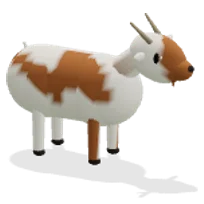
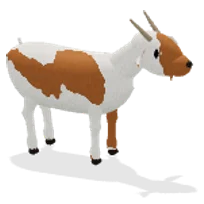
3D map: animals in look C — lofted bodies and legs, coat grain, crisp breed patches, lighter herds
Same rig, brain and one-mesh herd; the models and the material changed.

- Trunk is one lofted form with a chest and belly; legs are lofted with a knee
  and a hock; horses and donkeys on one hoof, the rest cloven.
- Ears are cupped sheets with a pink inside; manes, tail tufts and feathers are
  blades; birds have toes, a lobed comb and an eye highlight.
- Breed patches are a field in the vertices cut per pixel, so cow and goat
  patches stay crisp. Hair and feather grain in the material; eyes, hooves,
  horns and beaks shine a little.
- Leaner trunks and smaller heads than the toy build; shorter back on the horse.
- Levels of detail by herd size (animalTier): 0 up to 6 animals, 1 up to 16,
  2 up to 40, 3 beyond; a phone on a big farm drops one more. Budgets enforced
  in tests/animals-real.test.js.
- Animal pictures and the barn, coop and pasture tiles re-rendered.
- docs/MAP_STYLE.md section 10: animals, coat material, levels, measurements.

Still simplified anatomy. Not measured on a phone.

Claude-Session: https://claude.ai/code/session_015cd1CNMNj9fbLSNeRdPE1U

Changed region(s): [[0.0294, 0.0882, 0.9706, 0.8235], [0.5882, 0.7941, 0.7059, 0.8824], [0.7059, 0.0588, 0.7353, 0.1176]]

diff --git a/src/features/grove/animals3d.js b/src/features/grove/animals3d.js
@@ -6,15 +6,21 @@
    move in the vertex shader from the shared clock: they walk slow loops inside their
    paddock, stop and graze (head down, nibbling), swish tails, hens strut and peck,
    rabbits hop. Local space: forward = +z, up = +y, ground = y 0, body centre at x/z 0.
-   Toy proportions (v2): plump rounded bodies, big heads and eyes, short chunky legs with
-   rounded hooves, smooth high-segment surfaces, matte vertex colours.
-   MARKER: GROVE_ANIMALS_3D_V2
+   Look C (docs/MAP_STYLE.md §10): one lofted trunk with a chest and belly, lofted legs with knees and
+   hocks, cupped ears, hair and feather blades, breed patches cut crisp per pixel, coat grain in the
+   material. Still simplified anatomy: readable at map size, not a sculpt. Herds get lighter models as
+   they grow (animalTier).
+   MARKER: GROVE_ANIMALS_3D_V3
    ═══════════════════════════════════════════ */
 import * as THREE from "three";
 import { mergeGeometries } from "three/examples/jsm/utils/BufferGeometryUtils.js";
 import { DETAIL } from "./toy";
-// phones build animals with fewer segments too (toy.js setDetail)
-const sd = (n, min) => Math.max(min, Math.round(n * DETAIL.value));
+// big herds and phones on a big farm get lighter models, as crops and trees do: fewer segments, fewer and wider hair blades
+export const ANIMAL_Q = [1, .72, .55, .42];
+export function animalTier(count, phone) { const t = count <= 6 ? 0 : count <= 16 ? 1 : count <= 40 ? 2 : 3; return Math.min(3, t + (phone ? 1 : 0)); }
+let QUAL = 1;
+const sd = (n, min) => Math.max(min, Math.round(n * QUAL));
+const hairs = (n, min) => Math.max(min, Math.round(n * Math.min(1, QUAL * 1.3))); // how many blades of a mane, tuft or fan
 const sph = (a, b) => new THREE.SphereGeometry(1, sd(a, 5), sd(b, 4));
 
 const HPI = Math.PI / 2, DEG = Math.PI / 180;
@@ -29,8 +35,8 @@ function patchy(x, y, z, k) { return Math.sin(x * 4.1 + k) * Math.sin(y * 3.3 + 
 
 /* ---------- a rig collects coloured primitives with their part id and pivot ---------- */
 class Rig {
-  constructor() { this.geos = []; }
-  add(geo, color, { part = PART.body, pivot = [0, 0, 0], pos = [0, 0, 0], rot = [0, 0, 0], scale = 1, paint = null } = {}) {
+  constructor(hair = 1) { this.geos = []; this.surf = [4, .12]; this.patch = null; this.hair = hair; }
+  add(geo, color, { part = PART.body, pivot = [0, 0, 0], pos = [0, 0, 0], rot = [0, 0, 0], scale = 1, paint = null, field = null, surf = null } = {}) {
     const M = new THREE.Matrix4(), E = new THREE.Euler(rot[0], rot[1], rot[2], "YXZ"), Q = new THREE.Quaternion().setFromEuler(E);
     const S = Array.isArray(scale) ? new THREE.Vector3(...scale) : new THREE.Vector3(scale, scale, scale);
     M.compose(new THREE.Vector3(...pos), Q, S); geo.applyMatrix4(M);
@@ -41,6 +47,10 @@ class Rig {
       pA[i * 4] = part; pA[i * 4 + 1] = pivot[0]; pA[i * 4 + 2] = pivot[1]; pA[i * 4 + 3] = pivot[2];
     }
     geo.setAttribute("color", new THREE.BufferAttribute(cA, 3)); geo.setAttribute("g3p", new THREE.BufferAttribute(pA, 4));
+    // surface: g3s = (kind, gloss, patch field, patch cut), g3k = (patch colour, hair scale). Kind 4 is coat or plumage, 0 is plain (eyes, hooves, beaks).
+    const [kind, gloss] = surf || this.surf, sA = new Float32Array(n * 4), kA = new Float32Array(n * 4), pc = field && this.patch ? this.patch : null;
+    for (let i = 0; i < n; i++) { sA[i * 4] = kind; sA[i * 4 + 1] = gloss; sA[i * 4 + 2] = pc ? field(P.getX(i), P.getY(i), P.getZ(i)) : -9; sA[i * 4 + 3] = pc ? pc.cut : 0; if (pc) { kA[i * 4] = pc.color.r; kA[i * 4 + 1] = pc.color.g; kA[i * 4 + 2] = pc.color.b; } kA[i * 4 + 3] = this.hair; }
+    geo.setAttribute("g3s", new THREE.BufferAttribute(sA, 4)); geo.setAttribute("g3k", new THREE.BufferAttribute(kA, 4));
     geo.deleteAttribute("uv");
     this.geos.push(geo); return geo;
   }
@@ -55,81 +65,107 @@ class Rig {
     const q = new THREE.Quaternion().setFromUnitVectors(new THREE.Vector3(0, 1, 0), B.clone().sub(A).normalize()), M = new THREE.Matrix4().compose(A.clone().add(B).multiplyScalar(.5), q, new THREE.Vector3(1, 1, 1));
     geo.applyMatrix4(M); return this.add(geo, color, o);
   }
+  /* one smooth form lofted through stations [z, half width, top, bottom] with a slightly square section (bodies, necks, legs) */
+  loft(stations, color, { rings = 24, seg = 28, pow = 2.3, minRings = 8, minSeg = 10, ...o } = {}) {
+    rings = sd(rings, minRings); seg = sd(seg, minSeg); const P = [], I = [], n = stations.length - 1, e = 2 / pow;
+    const at = (t) => { const f = Math.min(n - 1e-6, t * n), i = Math.floor(f), u = f - i, a = stations[Math.max(0, i - 1)], b = stations[i], c = stations[i + 1], d = stations[Math.min(n, i + 2)]; return b.map((_, k) => .5 * (2 * b[k] + (c[k] - a[k]) * u + (2 * a[k] - 5 * b[k] + 4 * c[k] - d[k]) * u * u + (3 * b[k] - a[k] - 3 * c[k] + d[k]) * u * u * u)); };
+    for (let i = 0; i <= rings; i++) { const [z, w, top, bot] = at(i / rings), cy = (top + bot) / 2, h = Math.max(.002, (top - bot) / 2), ww = Math.max(.002, w); for (let j = 0; j < seg; j++) { const th = (j / seg) * Math.PI * 2, c = Math.cos(th), sn = Math.sin(th); P.push(ww * Math.sign(c) * Math.pow(Math.abs(c), e), cy + h * Math.sign(sn) * Math.pow(Math.abs(sn), e), z); } }
+    for (let i = 0; i < rings; i++) for (let j = 0; j < seg; j++) { const a = i * seg + j, b = i * seg + (j + 1) % seg, c = a + seg, d = b + seg; I.push(a, c, b, b, c, d); }
+    const g = new THREE.BufferGeometry(); g.setAttribute("position", new THREE.Float32BufferAttribute(P, 3)); g.setIndex(I); g.computeVertexNormals();
+    const mid = Math.floor(rings / 2) * seg; if (g.attributes.normal.getX(mid) * g.attributes.position.getX(mid) < 0) { for (let i = 0; i < I.length; i += 3) { const t = I[i + 1]; I[i + 1] = I[i + 2]; I[i + 2] = t; } g.setIndex(I); g.computeVertexNormals(); }
+    return this.add(g, color, o);
+  }
+  /* a thin pointed sheet along +z, drawn from both sides: ears, tail hair, feathers */
+  blade(len, wid, color, { fold = .3, droop = .15, rows = 3, wide = .45, ...o } = {}) {
+    if (QUAL < .5) rows = Math.min(rows, 2);
+    const P = [], I = [], a = Math.log(.5) / Math.log(wide);
+    for (let r = 0; r <= rows; r++) { const t = r / rows, w = (wid / 2) * Math.pow(Math.sin(Math.PI * Math.pow(t, a)), .7), y = -droop * len * t * t; P.push(-w, y + fold * w, len * t, 0, y, len * t, w, y + fold * w, len * t); if (r < rows) { const q = r * 3; I.push(q, q + 1, q + 3, q + 1, q + 4, q + 3, q + 1, q + 2, q + 4, q + 2, q + 5, q + 4); } }
+    const f = new THREE.BufferGeometry(); f.setAttribute("position", new THREE.Float32BufferAttribute(P, 3)); f.setIndex(I); f.computeVertexNormals();
+    const b = f.clone(), bi = b.index.array, bn = b.attributes.normal.array; for (let i = 0; i < bi.length; i += 3) { const t = bi[i + 1]; bi[i + 1] = bi[i + 2]; bi[i + 2] = t; } for (let i = 0; i < bn.length; i++) bn[i] = -bn[i];
+    const g = mergeGeometries([f, b], false); f.dispose(); b.dispose(); return this.add(g, color, o);
+  }
   build() { const g = mergeGeometries(this.geos, false); this.geos.forEach((x) => x.dispose()); return g; }
 }
 
 /* ---------- quadrupeds ---------- */
 function quadruped(S, r, vi) {
-  const R = new Rig(), C = S.colors(r, vi);
-  const { L, H } = S, br = S.br * 1.3, bw = S.bw || 1, bl = L * (S.bodyFrac || .6) * .78, by = H - br * .95;
-  const pk = 2.6 / L, paint = C.patch ? (x, y, z, c) => (patchy(x * pk, y * pk, z * pk, S.seed * 3.7) > (S.patchCut ?? .35) ? C.patch : c) : null;
+  const R = new Rig(2.3 / S.L), C = S.colors(r, vi);
+  const { L, H } = S, br = S.br * 1.14, bw = S.bw || 1, bl = L * (S.bodyFrac || .6) * .84, by = H - br * .95; // leaner than the toy build: the trunk rides higher, so the legs read longer
+  // breed patches are a smooth field carried in the vertices and cut crisp per pixel, so their edges never go blocky
+  const pk = 2.6 / L, paint = C.patch ? (x, y, z) => patchy(x * pk, y * pk, z * pk, S.seed * 3.7) : null; if (C.patch) R.patch = { color: C.patch, cut: S.patchCut ?? .35 };
   // body: a capsule along z, wider than tall for cattle and pigs
-  R.capsule(br, bl, C.body, { rot: [HPI, 0, 0], pos: [0, by, 0], scale: [bw, 1, 1], paint, cap: paint ? 7 : 4, seg: paint ? 26 : 18, hseg: paint ? 12 : 1 }); // patched coats need a fine mesh or the patches go blocky
-  R.ell(br * bw * 1.05, br * 1.04, br * 1.0, C.body, { pos: [0, by - br * .03, bl / 2 - br * .25], paint, seg: paint ? 24 : 16, rings: paint ? 18 : 12 }); // a deep round chest
-  R.ell(br * bw * 1.08, br * 1.02, br * .95, C.body, { pos: [0, by - br * .02, -bl / 2 + br * .3], paint, seg: paint ? 24 : 16, rings: paint ? 18 : 12 }); // and a round rump: every toy animal is a little plump
+  // the trunk is one lofted form: level back, deeper chest, a belly where the species carries one, narrowing to rump and breast
+  const w0 = br * bw, hz = bl / 2;
+  R.loft([[-hz - br * .98, .02, by + br * .5, by + br * .2], [-hz - br * .62, w0 * .62, by + br * .84, by - br * .42], [-hz, w0, by + br * .98, by - br * .88], [-bl * .15, w0 * 1.06, by + br * .95, by - br * (S.belly ? 1.08 : .98)], [bl * .2, w0 * 1.02, by + br * .94, by - br],
+    [hz, w0 * .92, by + br, by - br * (S.chest ? 1.02 : .92)], [hz + br * .55, w0 * .6, by + br * .9, by - br * .55], [hz + br * .95, .02, by + br * .45, by + br * .05]], C.body, { field: paint, rings: 30, seg: 32 });
   // neck + head pivot at the withers
   const n0 = [0, by + br * .35, bl / 2 + br * .1], up = S.neck.up, nl = S.neck.len;
   const n1 = [0, n0[1] + Math.sin(up) * nl, n0[2] + Math.cos(up) * nl];
   const head = (g, o) => R.add(g, o.color || C.head, { ...o, part: PART.head, pivot: n0 });
-  R.bar(n0, n1, S.neck.r0, S.neck.r1, C.body, { part: PART.head, pivot: n0, paint, seg: 9 });
-  if (S.mane) R.box(br * .12, S.mane, nl * .9, C.mane || C.tuft, { part: PART.head, pivot: n0, pos: [0, (n0[1] + n1[1]) / 2 + S.neck.r0 * .9, (n0[2] + n1[2]) / 2], rot: [-up, 0, 0] });
-  const hl = S.head.l * 1.12, hw = S.head.w * 1.3, hh = S.head.h * 1.28, pitch = S.head.pitch || 0, hc = [0, n1[1] + Math.sin(-pitch) * hl * .3, n1[2] + hl * .3];
-  head(sph(16, 12), { pos: hc, scale: [hw, hh, hl * .66], rot: [pitch, 0, 0], paint });
+  R.loft([[-S.neck.r0 * .5, S.neck.r0 * .9, S.neck.r0 * 1.05, -S.neck.r0 * 1.15], [nl * .5, (S.neck.r0 + S.neck.r1) * .46, (S.neck.r0 + S.neck.r1) * .52, -(S.neck.r0 + S.neck.r1) * .56], [nl * 1.05, S.neck.r1 * .92, S.neck.r1, -S.neck.r1]], C.body, { part: PART.head, pivot: n0, pos: n0, rot: [-up, 0, 0], field: paint, rings: 8, seg: 18, pow: 2.1 });
+  if (S.mane) for (let k = 0, nm = hairs(9, 4); k < nm; k++) { const t = .08 + k * .8 / (nm - 1), m = [0, n0[1] + (n1[1] - n0[1]) * t + S.neck.r0 * (1.02 - t * .3), n0[2] + (n1[2] - n0[2]) * t - S.neck.r0 * .25 * Math.sin(up)]; R.blade(S.mane * 2.6, S.mane * 1.1 * Math.sqrt(9 / nm), C.mane || C.tuft, { part: PART.head, pivot: n0, pos: m, rot: [1.2 - up * .3, (k % 2 ? 1 : -1) * 1.35, 0], droop: .5, fold: .2 }); }
+  const hl = S.head.l * 1.05, hw = S.head.w * 1.1, hh = S.head.h * 1.1, pitch = S.head.pitch || 0, hc = [0, n1[1] + Math.sin(-pitch) * hl * .3, n1[2] + hl * .3];
+  head(sph(16, 12), { pos: hc, scale: [hw, hh, hl * .66], rot: [pitch, 0, 0], field: paint });
   // snout / muzzle
   const sn = S.snout, sc = [0, hc[1] - sn.drop, hc[2] + hl * .5];
-  head(sph(14, 10), { pos: sc, scale: [sn.w * 1.15, sn.h * 1.1, sn.l], color: C.muzzle || C.head, paint: C.muzzle ? null : paint });
+  head(sph(14, 10), { pos: sc, scale: [sn.w * 1.15, sn.h * 1.1, sn.l], color: C.muzzle || C.head, field: C.muzzle ? null : paint });
   if (S.noseDisc) head(new THREE.CylinderGeometry(sn.w * .8, sn.w * .8, .03, 10), { pos: [0, sc[1], sc[2] + sn.l * .95], rot: [HPI, 0, 0], color: C.nose || 0x6d4a44 });
   else head(sph(7, 5), { pos: [0, sc[1] + sn.h * .25, sc[2] + sn.l * .82], scale: [sn.w * .5, sn.h * .35, sn.l * .3], color: C.nose || 0x33302d });
   // eyes
-  [-1, 1].forEach((s) => { head(sph(10, 8), { pos: [s * hw * .82, hc[1] + hh * .2, hc[2] + hl * .14], scale: [hw * .24, hh * .24, hw * .17], color: 0x1e1a18 }); head(sph(6, 5), { pos: [s * hw * .86, hc[1] + hh * .27, hc[2] + hl * .25], scale: [hw * .07, hh * .07, hw * .05], color: 0xffffff }); });
+  [-1, 1].forEach((s) => { head(sph(10, 8), { pos: [s * hw * .82, hc[1] + hh * .2, hc[2] + hl * .14], scale: [hw * .24, hh * .24, hw * .17], color: 0x1e1a18, surf: [0, .95] }); head(sph(6, 5), { pos: [s * hw * .86, hc[1] + hh * .27, hc[2] + hl * .25], scale: [hw * .07, hh * .07, hw * .05], color: 0xffffff }); });
   // ears
   const E = S.ears, ey = hc[1] + hh * .6, ez = hc[2] - hl * .12;
-  [-1, 1].forEach((s) => {
-    if (E.type === "up") head(sph(6, 5), { pos: [s * hw * .8, ey + E.len * .4, ez], scale: [E.w, E.len * .6, E.w * .45], rot: [-.25, 0, s * -.45], color: C.ears || C.head, paint });
-    else if (E.type === "side") head(sph(6, 5), { pos: [s * (hw + E.len * .45), ey - hh * .25, ez], scale: [E.len * .55, E.w * .55, E.w * .35], rot: [.1, 0, s * .18], color: C.ears || C.head, paint });
-    else if (E.type === "long") head(sph(6, 5), { pos: [s * hw * .7, ey + E.len * .5, ez - hl * .1], scale: [E.w, E.len * .6, E.w * .4], rot: [-.15, 0, s * -.22], color: C.ears || C.head, paint });
-    else head(sph(6, 5), { pos: [s * hw * .95, ey - hh * .15, ez + hl * .2], scale: [E.w * .5, E.len * .55, E.w * .35], rot: [.55, 0, s * .35], color: C.ears || C.head, paint }); // floppy, forward
+  [-1, 1].forEach((s) => { // ears are cupped sheets with a pink inside, not blobs
+    const root = E.type === "up" || E.type === "long" ? [s * hw * .7, ey - hh * .05, ez - hl * .05] : [s * hw * .9, ey - hh * .3, ez], rot = E.type === "up" ? [-1.25, s * .5, 0] : E.type === "long" ? [-1.3, s * .3, 0] : E.type === "floppy" ? [.6, s * 1.0, s * -.6] : [.2, s * 1.45, s * -1.0];
+    R.blade(E.len * 1.25, E.w * 1.5, C.ears || C.head, { part: PART.head, pivot: n0, pos: root, rot, fold: .5, field: C.ears ? null : paint });
+    R.blade(E.len, E.w * .9, 0xd9a59a, { part: PART.head, pivot: n0, pos: [root[0], root[1] + .004, root[2] + .004], rot, fold: .45, surf: [0, .15] });
   });
   // horns
-  if (S.horns) { const h = S.horns; [-1, 1].forEach((s) => { const a = [s * hw * .55, hc[1] + hh * .75, hc[2] - hl * .05], b = [s * (hw * .55 + h.spread), a[1] + h.up, a[2] - h.back]; R.bar(a, b, h.r, h.r * .35, C.horn || 0xd9cfb5, { part: PART.head, pivot: n0, seg: 6 }); }); }
+  if (S.horns) { const h = S.horns; [-1, 1].forEach((s) => { const a = [s * hw * .55, hc[1] + hh * .75, hc[2] - hl * .05], b = [s * (hw * .55 + h.spread), a[1] + h.up, a[2] - h.back]; R.bar(a, b, h.r, h.r * .35, C.horn || 0xd9cfb5, { part: PART.head, pivot: n0, seg: 6, surf: [0, .4] }); }); }
   if (S.beard) head(new THREE.ConeGeometry(hw * .35, hh * .9, 6), { pos: [0, sc[1] - sn.h * .9, sc[2] - sn.l * .5], rot: [Math.PI, 0, 0], color: C.tuft || C.head });
   if (S.topknot) head(sph(7, 5), { pos: [0, hc[1] + hh * .9, hc[2] - hl * .05], scale: [hw * .9, hh * .45, hl * .45], color: C.tuft || C.head });
   // legs: FL FR BL BR, pivot at the hip, hoof at the ground
-  const lr = S.legR, lx = br * bw * .62, lzF = bl / 2 - br * .15, lzB = -bl / 2 + br * .2, hipY = by - br * .35, hoofH = lr * 1.6;
-  [[-lx, lzF, PART.FL], [lx, lzF, PART.FR], [-lx, lzB, PART.BL], [lx, lzB, PART.BR]].forEach(([x, z, part]) => {
+  const lr = S.legR * .88, lx = br * bw * .62, lzF = bl / 2 - br * .15, lzB = -bl / 2 + br * .2, hipY = by - br * .35;
+  // legs are lofted from pastern to elbow or stifle, with a knee in front and a hock behind; stations are [height, half width, back, front] in leg radii
+  const FRONT = [[.07, .9, .9, -1], [.17, 1.05, 1.2, -1.1], [.24, .8, .85, -.85], [.42, .82, .9, -.9], [.5, 1.15, 1.2, -1.35], [.58, 1.05, 1.15, -1.15], [.75, 1.5, 1.8, -1.7], [.92, 1.8, 2.5, -2.1], [1, 1.3, 2, -1.7]];
+  const HIND = [[.07, .9, .9, -1], [.17, 1.05, 1.3, -1.05], [.25, .8, 1.05, -.72], [.44, .85, 1.6, -.3], [.53, 1.05, 2.6, -.15], [.62, 1.1, 2, -.6], [.76, 1.6, 1.9, -2], [.92, 2.1, 2.1, -3.2], [1, 1.6, 1.7, -2.8]];
+  const legTop = hipY + br * .3, lr0 = lr * 1.25;
+  [[-lx, lzF, PART.FL, FRONT], [lx, lzF, PART.FR, FRONT], [-lx, lzB, PART.BL, HIND], [lx, lzB, PART.BR, HIND]].forEach(([x, z, part, st]) => {
     const piv = [x, hipY, z];
-    R.bar([x, hipY + br * .25, z], [x, hoofH * .9, z], lr * 1.7, lr * 1.35, C.legs || C.body, { part, pivot: piv, paint: C.legs ? null : paint, seg: 10 });
-    R.ell(lr * 1.5, lr * 1.0, lr * 1.6, C.hoof || 0x3a302a, { part, pivot: piv, pos: [x, lr * .85, z + lr * .15], seg: 10, rings: 7 });
-
+    R.loft(st.map(([t, w, back, front]) => [t * legTop, w * lr0, back * lr0, front * lr0]), C.legs || C.body, { part, pivot: piv, pos: [x, 0, z], rot: [-HPI, 0, 0], field: C.legs ? null : paint, rings: 16, seg: 12, minRings: 7, minSeg: 8, pow: 2.2 });
+    if (S.mane || QUAL < .5) R.ell(lr * 1.35, lr * 1.0, lr * 1.5, C.hoof || 0x3a302a, { part, pivot: piv, pos: [x, lr * .8, z + lr * .15], seg: 10, rings: 7, surf: [0, .45] }); // a single hoof
+    else [-1, 1].forEach((sd2) => R.ell(lr * .72, lr * .95, lr * 1.3, C.hoof || 0x3a302a, { part, pivot: piv, pos: [x + sd2 * lr * .62, lr * .8, z + lr * .35], rot: [0, sd2 * .14, 0], seg: 8, rings: 6, surf: [0, .45] })); // cloven
   });
   // tail
   const T = S.tail, t0 = [0, by + br * .55, -bl / 2 - br * .35], t1 = [0, t0[1] - T.down, t0[2] - T.back];
   if (T.curl) R.add(new THREE.TorusGeometry(T.len * .35, T.len * .12, 5, 9, 4.8), C.body, { part: PART.tail, pivot: t0, pos: [0, t0[1] - T.len * .2, t0[2] - T.len * .15], rot: [0, HPI, .6] });
-  else if (T.up) R.bar(t0, [0, t0[1] + T.len * .8, t0[2] - T.len * .35], T.r, T.r * .5, C.body, { part: PART.tail, pivot: t0, paint, seg: 6 });
-  else { R.bar(t0, t1, T.r, T.r * .7, C.body, { part: PART.tail, pivot: t0, paint, seg: 6 }); if (T.tuft) R.ell(T.r * 2.2, T.tuft, T.r * 2.2, C.tuft || 0x2a2320, { part: PART.tail, pivot: t0, pos: [0, t1[1] - T.tuft * .5, t1[2]] }); }
+  else if (T.up) R.bar(t0, [0, t0[1] + T.len * .8, t0[2] - T.len * .35], T.r, T.r * .5, C.body, { part: PART.tail, pivot: t0, field: paint, seg: 6 });
+  else { R.bar(t0, t1, T.r, T.r * .7, C.body, { part: PART.tail, pivot: t0, field: paint, seg: 6 }); if (T.tuft) for (let k = 0, nt = hairs(9, 4), da = 6.3 / nt; k < nt; k++) R.blade(T.tuft * 1.9, T.r * 1.6 * Math.sqrt(9 / nt), C.tuft || 0x2a2320, { part: PART.tail, pivot: t0, pos: [Math.sin(k * da) * T.r * .5, t1[1] + T.r, t1[2] + Math.cos(k * da) * T.r * .5], rot: [1.3 + (k % 3) * .08, k * da, 0], droop: .1, fold: .25 }); }
   if (S.extras) S.extras(R, C, { by, bl, br, bw, hc, sc, n0, n1, hl, hw, hh, lx, hipY }, r);
   return R.build();
 }
 
 /* ---------- birds ---------- */
 function bird(S, r, vi) {
-  const R = new Rig(), C = S.colors(r, vi), { L, H } = S, bl = L * .55, bh = L * .33 * (S.plump || 1), bwid = L * .3 * (S.plump || 1), by = H - bh * .55, tilt = S.tilt ?? .35;
+  const R = new Rig(.5 / S.L), C = S.colors(r, vi), { L, H } = S, bl = L * .55, bh = L * .33 * (S.plump || 1), bwid = L * .3 * (S.plump || 1), by = H - bh * .55, tilt = S.tilt ?? .35;
   const paint = C.speckle ? (x, y, z, c) => c.clone().lerp(C.speckle, .18 + .22 * Math.abs(Math.sin(x * 37 + y * 23) * Math.sin(z * 41 - y * 17))) : null; // fine mottling, not vertex-sized blotches
   R.ell(bwid * 1.08, bh * 1.05, bl, C.body, { pos: [0, by, 0], rot: [-tilt, 0, 0], paint, seg: 16, rings: 12 });
   [-1, 1].forEach((s) => R.ell(bwid * .38, bh * .58, bl * .8, C.wing || C.body, { pos: [s * bwid * .82, by + bh * .1, -bl * .05], rot: [-tilt * .8, 0, s * .12], paint, seg: 12, rings: 8 }));
   // tail: a few flattened feathers fanned up and back (turkeys carry a full fan)
   const t0 = [0, by + bh * .35, -bl * .85];
-  if (S.fan) { for (let i = 0; i < 7; i++) { const a = -.9 + i * .3; R.add(new THREE.BoxGeometry(L * .12, L * .55, .008), C.tail || C.body, { part: PART.tail, pivot: t0, pos: [Math.sin(a) * L * .2, t0[1] + Math.cos(a) * L * .26 + L * .04, t0[2] - .04], rot: [-.5, 0, -a] }); } }
-  else for (let i = -1; i <= 1; i++) R.add(new THREE.BoxGeometry(L * .07, L * (S.tailLen || .3), .01), C.tail || C.body, { part: PART.tail, pivot: t0, pos: [i * L * .05, t0[1] + L * .1, t0[2] - L * .08], rot: [-.85 - (S.tailUp || 0), 0, i * .35] });
+  if (S.fan) { for (let i = 0; i < 11; i++) { const a = -1.0 + i * .2; R.blade(L * .62, L * .16, i % 2 ? C.tail || C.body : col(0x6a4a34), { part: PART.tail, pivot: t0, pos: [Math.sin(a) * L * .05, t0[1], t0[2]], rot: [-1.25 + Math.abs(a) * .25, Math.PI, a * 1.05], fold: .15, droop: -.1, wide: .7 }); } }
+  else for (let i = -2; i <= 2; i++) R.blade(L * (S.tailLen || .3) * (1.25 - Math.abs(i) * .12), L * .085, C.tail || C.body, { part: PART.tail, pivot: t0, pos: [i * L * .025, t0[1], t0[2]], rot: [-.75 - (S.tailUp || 0), Math.PI + i * .22, i * .3], fold: .3, droop: .25, wide: .6 });
+  // flight feathers lying back along each wing
+  [-1, 1].forEach((s) => { for (let k = 0, nw = hairs(4, 2), f = 4 / nw; k < nw; k++) R.blade(bl * (.7 - k * f * .08), bh * .34 * f, C.wing || C.body, { pos: [s * bwid * (1.02 - k * f * .03), by + bh * (.32 - k * f * .16), bl * .22], rot: [.12 + k * f * .1 + tilt * .6, Math.PI + s * .12, s * 1.35], fold: .2, droop: .1, wide: .55, paint }); });
   // neck + head, pivot at the front of the body
   const n0 = [0, by + bh * .45, bl * .55], up = S.neck.up, nl = S.neck.len, n1 = [0, n0[1] + Math.sin(up) * nl, n0[2] + Math.cos(up) * nl];
   const head = (g, o) => R.add(g, o.color || C.head || C.body, { ...o, part: PART.head, pivot: n0 });
   R.bar(n0, n1, S.neck.r, S.neck.r * .85, C.neck || C.body, { part: PART.head, pivot: n0, paint, seg: 8 });
   const hr = S.head.r * 1.25, hc = [0, n1[1] + hr * .3, n1[2] + hr * .2];
   head(sph(14, 10), { pos: hc, scale: [hr, hr * .95, hr * 1.1], paint });
-  head(new THREE.ConeGeometry(hr * .38, S.beak.len, 6), { pos: [0, hc[1] - hr * .1, hc[2] + hr * .95 + S.beak.len * .4], rot: [HPI, 0, 0], color: C.beak, scale: [1, 1, S.beak.flat || 1] });
-  [-1, 1].forEach((s) => head(sph(8, 6), { pos: [s * hr * .8, hc[1] + hr * .2, hc[2] + hr * .4], scale: [hr * .22, hr * .22, hr * .17], color: 0x1e1a18 }));
-  if (S.comb) head(new THREE.BoxGeometry(hr * .18, hr * .7, hr * 1.1), { pos: [0, hc[1] + hr * .95, hc[2] - hr * .05], rot: [.2, 0, 0], color: 0xd6362e });
+  head(new THREE.ConeGeometry(hr * .38, S.beak.len, 6), { pos: [0, hc[1] - hr * .1, hc[2] + hr * .95 + S.beak.len * .4], rot: [HPI, 0, 0], color: C.beak, scale: [1, 1, S.beak.flat || 1], surf: [0, .45] });
+  [-1, 1].forEach((s) => { head(sph(8, 6), { pos: [s * hr * .8, hc[1] + hr * .2, hc[2] + hr * .4], scale: [hr * .22, hr * .22, hr * .17], color: 0x1e1a18, surf: [0, .95] }); head(sph(5, 4), { pos: [s * hr * .9, hc[1] + hr * .28, hc[2] + hr * .47], scale: [hr * .06, hr * .06, hr * .05], color: 0xffffff, surf: [0, .9] }); });
+  if (S.comb) for (let k = 0; k < 4; k++) head(sph(7, 5), { pos: [0, hc[1] + hr * (.98 + (k === 1 ? .16 : k === 2 ? .1 : 0)), hc[2] + hr * (.5 - k * .36)], scale: [hr * .09, hr * (.3 - k * .03), hr * .22], color: 0xd6362e, surf: [0, .35] });
   if (S.wattle) head(sph(6, 5), { pos: [0, hc[1] - hr * .75, hc[2] + hr * .55], scale: [hr * .32, hr * .5, hr * .3], color: 0xd6362e });
   if (S.snood) head(sph(6, 5), { pos: [0, hc[1] - hr * .4, hc[2] + hr * 1.1], scale: [hr * .18, hr * .55, hr * .18], color: 0xc8302a });
   if (S.plume) head(sph(6, 5), { pos: [0, hc[1] + hr * 1.2, hc[2] + hr * .1], scale: [hr * .12, hr * .45, hr * .12], rot: [.4, 0, 0], color: 0x2b2420 });
@@ -139,21 +175,21 @@ function bird(S, r, vi) {
   [[-lx, PART.FL], [lx, PART.FR]].forEach(([x, part]) => {
     const piv = [x, hipY + bh * .2, L * .05];
     R.bar([x, hipY + bh * .25, L * .05], [x, 0.01, L * .02], lr * 1.3, lr, C.legs, { part, pivot: piv, seg: 5 });
-    R.box(lr * 4, lr * 1.2, L * .22, C.legs, { part, pivot: piv, pos: [x, lr * .6, L * .1] });
+    [-.55, 0, .55].forEach((a) => R.bar([x, lr * .7, L * .03], [x + Math.sin(a) * L * .13, lr * .5, L * .03 + Math.cos(a) * L * .16], lr * .9, lr * .5, C.legs, { part, pivot: piv, seg: 4, surf: [0, .3] })); R.bar([x, lr * .7, L * .03], [x, lr * .5, -L * .05], lr * .8, lr * .45, C.legs, { part, pivot: piv, seg: 4, surf: [0, .3] }); // three toes forward, one back
   });
   return R.build();
 }
 
 /* ---------- rabbit ---------- */
 function rabbit(S, r, vi) {
-  const R = new Rig(), C = S.colors(r, vi), L = S.L, by = L * .27;
+  const R = new Rig(.6 / S.L), C = S.colors(r, vi), L = S.L, by = L * .27;
   R.ell(L * .3, L * .32, L * .48, C.body, { pos: [0, by, -L * .05], seg: 16, rings: 12 });
   [-1, 1].forEach((s) => R.ell(L * .15, L * .21, L * .25, C.body, { pos: [s * L * .2, by - L * .05, -L * .25], seg: 12, rings: 9 })); // haunches
   const n0 = [0, by + L * .1, L * .32], hc = [0, n0[1] + L * .12, n0[2] + L * .08];
   const head = (g, o) => R.add(g, o.color || C.body, { ...o, part: PART.head, pivot: n0 });
   head(sph(14, 10), { pos: hc, scale: [L * .2, L * .2, L * .23] });
   head(sph(6, 4), { pos: [0, hc[1] - L * .02, hc[2] + L * .2], scale: [L * .035, L * .03, L * .03], color: 0x6a4a48 });
-  [-1, 1].forEach((s) => { head(sph(6, 4), { pos: [s * L * .13, hc[1] + L * .05, hc[2] + L * .08], scale: [L * .03, L * .03, L * .025], color: 0x1e1a18 }); head(sph(6, 5), { pos: [s * L * .07, hc[1] + L * .3, hc[2] - L * .06], scale: [L * .05, L * .2, L * .025], rot: [-.25, 0, s * -.15], color: C.ears || C.body }); });
+  [-1, 1].forEach((s) => { head(sph(6, 4), { pos: [s * L * .13, hc[1] + L * .05, hc[2] + L * .08], scale: [L * .03, L * .03, L * .025], color: 0x1e1a18, surf: [0, .95] }); R.blade(L * .42, L * .13, C.ears || C.body, { part: PART.head, pivot: n0, pos: [s * L * .07, hc[1] + L * .14, hc[2] - L * .06], rot: [-1.25, s * .25, 0], fold: .5, droop: -.05, wide: .5 }); R.blade(L * .36, L * .08, 0xe0b0a6, { part: PART.head, pivot: n0, pos: [s * L * .07, hc[1] + L * .145, hc[2] - L * .052], rot: [-1.25, s * .25, 0], fold: .45, droop: -.05, wide: .5, surf: [0, .15] }); });
   [-1, 1].forEach((s) => R.ell(L * .06, L * .05, L * .14, C.body, { pos: [s * L * .13, L * .05, L * .12] }));
   R.ell(L * .07, L * .07, L * .07, 0xf6f2ea, { part: PART.tail, pivot: [0, by, -L * .5], pos: [0, by + L * .02, -L * .52] });
   return R.build();
@@ -167,8 +203,8 @@ const SPECIES = {
     ears: { type: "side", len: .24, w: .12 }, horns: { spread: .16, up: .16, back: .05, r: .035 }, tail: { len: .9, down: .8, back: .12, r: .028, tuft: .14 },
     colors: (r, vi) => { const v = pick(vi, [[0xf3f0e7, 0x2a2521], [0xf3f0e7, 0x6f3d24], [0xa8663d, null], [0x3a2f28, null]]); return { body: col(v[0]), patch: v[1] == null ? null : col(v[1]), head: col(v[0]), muzzle: col(0xe7c6bd), hoof: col(0x3a302a), tuft: col(v[1] == null ? 0x3a2f28 : v[1]), horn: col(0xe6dcc3) }; },
     extras: (R, C, D) => { R.ell(D.br * .42, D.br * .32, D.br * .42, 0xefc2ba, { pos: [0, D.by - D.br * .82, -D.bl * .28] }); [[-1, -1], [1, -1], [-1, 1], [1, 1]].forEach(([a, b]) => R.cyl(.018, .022, .07, 0xe7b3aa, { pos: [a * D.br * .18, D.by - D.br * 1.08, -D.bl * .28 + b * D.br * .18], seg: 5 })); } },
-  Horse: { graze: 1.65, kind: KIND.grazer, L: 2.4, H: 1.58, br: .38, bw: .9, bodyFrac: .6, chest: true, legR: .06, walk: .55, seed: 2, mane: .12,
-    neck: { len: .8, up: 52 * DEG, r0: .26, r1: .17 }, head: { l: .6, w: .17, h: .22, pitch: .55 }, snout: { w: .13, h: .12, l: .2, drop: .18 },
+  Horse: { graze: 1.65, kind: KIND.grazer, L: 2.4, H: 1.58, br: .38, bw: .9, bodyFrac: .5, chest: true, legR: .06, walk: .55, seed: 2, mane: .12,
+    neck: { len: .82, up: 50 * DEG, r0: .25, r1: .16 }, head: { l: .64, w: .17, h: .22, pitch: .6 }, snout: { w: .13, h: .12, l: .26, drop: .2 },
     ears: { type: "up", len: .16, w: .05 }, tail: { len: 1.0, down: .95, back: .18, r: .07, tuft: .5 },
     colors: (r, vi) => { const v = pick(vi, [[0x7a4a2c, 0x2e2119], [0x3a2c25, 0x1c1614], [0xc9a978, 0x2e2119], [0xe9e4dc, 0xd0c8bb], [0x1f1b19, 0x0e0c0b]]); return { body: col(v[0]), head: col(v[0]), muzzle: col(v[0]).multiplyScalar(.8), hoof: col(0x2a2220), tuft: col(v[1]), mane: col(v[1]) }; } },
   Donkey: { graze: 1.45, kind: KIND.grazer, L: 1.9, H: 1.15, br: .32, bw: .95, bodyFrac: .6, legR: .05, walk: .4, seed: 3, mane: .07,
@@ -209,10 +245,15 @@ const SPECIES = {
 };
 
 const geoCache = new Map();
-function animalGeometry(type, variant) { // one geometry per species and colour variant, reused across the herd
-  const key = type + "|" + variant; if (geoCache.has(key)) return geoCache.get(key);
+function animalGeometry(type, variant, tier = 0) { // one geometry per species, colour variant and level of detail, reused across the herd
+  const key = type + "|" + variant + "|" + tier; if (geoCache.has(key)) return geoCache.get(key);
   const S = SPECIES[type] || SPECIES.Sheep, r = rng(variant * 17 + 3);
-  const g = S.kind === KIND.bird ? bird(S, r, variant) : S.kind === KIND.hopper ? rabbit(S, r, variant) : quadruped(S, r, variant);
+  let g; QUAL = ANIMAL_Q[tier] ?? 1;
+  try { g = S.kind === KIND.bird ? bird(S, r, variant) : S.kind === KIND.hopper ? rabbit(S, r, variant) : quadruped(S, r, variant); } finally { QUAL = 1; }
+  { // bellies, the insides of legs and the underside of the jaw sit in shade
+    const H = S.H || S.L * .6, p = g.attributes.position, nn = g.attributes.normal, c = g.attributes.color;
+    for (let i = 0; i < p.count; i++) { const y = p.getY(i) / H, k = 1 - .42 * Math.max(0, -nn.getY(i)) * Math.min(1, Math.max(0, (1.3 - y) / 1.1)); c.setXYZ(i, c.getX(i) * k, c.getY(i) * k, c.getZ(i) * k); }
+  }
   g.userData.shared = true; geoCache.set(key, g); return g; // shared across world rebuilds
 }
 
@@ -262,11 +303,28 @@ export function animalShader(sh, depth) {
   if (!depth) sh.vertexShader = sh.vertexShader.replace("#include <beginnormal_vertex>", `#include <beginnormal_vertex>
 { mat3 Rp, Rh; vec3 off; float vis, lie; g3pose(Rp, Rh, off, vis, lie); objectNormal = Rh * (Rp * objectNormal); }`);
 }
+const COAT_NOISE = `
+float g3ch(vec3 p){ p = fract(p * .3183099 + .1); p *= 17.; return fract(p.x * p.y * p.z * (p.x + p.y + p.z)); }
+float g3cn(vec3 x){ vec3 i = floor(x), f = fract(x); f = f * f * (3. - 2. * f);
+  return mix(mix(mix(g3ch(i), g3ch(i + vec3(1,0,0)), f.x), mix(g3ch(i + vec3(0,1,0)), g3ch(i + vec3(1,1,0)), f.x), f.y),
+             mix(mix(g3ch(i + vec3(0,0,1)), g3ch(i + vec3(1,0,1)), f.x), mix(g3ch(i + vec3(0,1,1)), g3ch(i + vec3(1,1,1)), f.x), f.y), f.z); }`;
 let mats = null;
 export function animalMaterials(TIME) {
   if (mats) return mats;
-  const mat = new THREE.MeshLambertMaterial({ vertexColors: true }); // matte coats: Lambert (see toy.js flat)
-  mat.onBeforeCompile = (sh) => { sh.uniforms.uTime = TIME; animalShader(sh, false); }; mat.customProgramCacheKey = () => "g3animal";
+  // look C (docs/MAP_STYLE.md §10): hair or feather grain, breed patches cut crisp from a field, a little shine on eyes, noses, hooves and beaks
+  const mat = new THREE.MeshPhongMaterial({ vertexColors: true, shininess: 40, specular: 0x6a6a6a });
+  mat.onBeforeCompile = (sh) => {
+    sh.uniforms.uTime = TIME; animalShader(sh, false);
+    sh.vertexShader = sh.vertexShader.replace("#include <common>", "#include <common>\nattribute vec4 g3s; attribute vec4 g3k; varying vec4 vS; varying vec4 vK; varying vec3 vObj;").replace("#include <begin_vertex>", "#include <begin_vertex>\nvS = g3s; vK = g3k; vObj = position;");
+    sh.fragmentShader = sh.fragmentShader.replace("#include <common>", "#include <common>\nvarying vec4 vS; varying vec4 vK; varying vec3 vObj;" + COAT_NOISE)
+      .replace("#include <color_fragment>", `#include <color_fragment>
+if (vS.x > 3.5) { vec3 p = vObj * vK.w;
+  if (vS.z > -8.) diffuseColor.rgb = mix(diffuseColor.rgb, vK.rgb, smoothstep(vS.w - .03, vS.w + .03, vS.z + (g3cn(p * 12.) - .5) * .4));
+  diffuseColor.rgb *= .9 + .2 * g3cn(p * vec3(90., 28., 90.)); }`)
+      .replace("#include <specularmap_fragment>", "#include <specularmap_fragment>\nspecularStrength *= vS.y;")
+      .replace("#include <lights_phong_fragment>", "#include <lights_phong_fragment>\nmaterial.specularShininess = mix(8., 120., vS.y);");
+  };
+  mat.customProgramCacheKey = () => "g3animal-c1";
   const depth = new THREE.MeshDepthMaterial({ depthPacking: THREE.RGBADepthPacking });
   depth.onBeforeCompile = (sh) => { sh.uniforms.uTime = TIME; animalShader(sh, true); }; depth.customProgramCacheKey = () => "g3animalDepth";
   mats = { mat, depth }; return mats;
@@ -285,10 +343,10 @@ export function speciesInfo(type) {
 /** items: [{ type, x, z, y?, heading, seed, variant? }]; returns { mesh, ranges: [{ idx, start, count }], l1, l2, b } — null without animals */
 export function buildHerd(items, TIME) {
   if (!items.length) return null;
-  const { mat, depth } = animalMaterials(TIME), geos = [], ranges = []; let start = 0;
+  const { mat, depth } = animalMaterials(TIME), geos = [], ranges = [], tier = animalTier(items.length, DETAIL.value < 1); let start = 0;
   items.forEach((it, idx) => {
     const S = SPECIES[it.type] || SPECIES.Sheep, r = rng(it.seed * 31 + 7), variant = it.variant ?? Math.floor(r() * 4);
-    const g = animalGeometry(it.type, variant).clone(), n = g.attributes.position.count;
+    const g = animalGeometry(it.type, variant, tier).clone(), n = g.attributes.position.count;
     const gait = 6.2832 * S.walk / (S.L * (S.kind === KIND.bird ? .32 : .5)), stride = S.kind === KIND.bird ? .45 : .32, graze = S.graze ?? 0, bobH = S.kind === KIND.hopper ? S.L * .22 : S.L * .012;
     const a = new Float32Array(n * 4), b = new Float32Array(n * 4), q = new Float32Array(n * 4), l1 = new Float32Array(n * 4), l2 = new Float32Array(n * 4), ph = r();
     for (let i = 0; i < n; i++) { a.set([it.x, it.z, it.heading, S.kind], i * 4); b.set([ph, S.H || S.L * .6, it.heading, it.heading], i * 4); q.set([gait, stride, graze, bobH], i * 4); l1.set([it.x, it.z, it.x, it.z], i * 4); l2.set([0, 1, 0, 0], i * 4); }

diff --git a/tests/animals-real.test.js b/tests/animals-real.test.js
@@ -1,0 +1,53 @@
+import test from 'node:test';
+import assert from 'node:assert/strict';
+import { buildHerd, animalTier, ANIMAL_Q } from '../src/features/grove/animals3d.js';
+import { LDB } from '../src/data/livestock.js';
+
+const TYPES = [...Object.keys(LDB).filter((t) => t !== 'Bee'), 'Alpaca'];
+const SMALL = new Set(['Chicken', 'Duck', 'Goose', 'Turkey', 'Quail', 'Guinea Fowl', 'Rabbit']);
+const herd = (type, n, variant) => buildHerd(Array.from({ length: n }, (_, i) => ({ type, x: i, z: 0, heading: 0, seed: 3 + i, variant })), { value: 0 });
+const N = [1, 7, 17, 41]; // herd sizes that land on levels of detail 0 to 3
+// triangles one animal may cost at each level of detail (docs/MAP_STYLE.md §10)
+const BUDGET = { big: [7000, 4000, 2900, 2200], small: [2200, 1500, 1150, 900] };
+
+test('herds get lighter models as they grow, and a phone on a big farm drops one more level', () => {
+  assert.deepEqual([1, 6, 7, 16, 17, 40, 41, 400].map((n) => animalTier(n, false)), [0, 0, 1, 1, 2, 2, 3, 3]);
+  assert.deepEqual([1, 7, 17, 41].map((n) => animalTier(n, true)), [1, 2, 3, 3]);
+  assert.equal(ANIMAL_Q.length, 4);
+});
+
+test('every animal stays inside its triangle budget at every level of detail', () => {
+  const over = [];
+  for (const type of TYPES) {
+    let last = Infinity;
+    N.forEach((n, tier) => {
+      for (const variant of tier ? [0] : [0, 1, 2, 3]) {
+        const h = herd(type, n, variant), per = h.mesh.geometry.index.count / 3 / h.ranges.length, cap = BUDGET[SMALL.has(type) ? 'small' : 'big'][tier];
+        if (per > cap) over.push(`${type} v${variant} level ${tier}: ${Math.round(per)} > ${cap}`);
+        if (!variant) { if (per >= last) over.push(`${type} level ${tier} is not lighter than level ${tier - 1}`); last = per; }
+      }
+    });
+  }
+  assert.deepEqual(over, []);
+});
+
+test('animal models carry clean vertex data and the coat attributes the material reads', () => {
+  for (const type of TYPES) for (const variant of [0, 1, 2, 3]) {
+    const g = herd(type, 1, variant).mesh.geometry;
+    for (const name of ['position', 'normal', 'color', 'g3p', 'g3s', 'g3k']) {
+      const a = g.attributes[name]; assert.ok(a, `${type} has ${name}`); assert.equal(a.count, g.attributes.position.count);
+      assert.ok(a.array.every(Number.isFinite), `${type} v${variant} ${name} has only finite numbers`); // a field function passed as a colour painter once turned a whole body black
+    }
+    const c = g.attributes.color.array, s = g.attributes.g3s; let coat = 0;
+    assert.ok(c.every((v) => v >= 0 && v <= 1.001), `${type} colours stay in range`);
+    for (let i = 0; i < s.count; i++) if (s.getX(i) > 3.5) coat++;
+    assert.ok(coat / s.count > .5, `${type} is mostly coat or plumage`);
+  }
+});
+
+test('breed patches are a field in the vertices: patched coats have vertices on both sides of the cut, plain coats have none', () => {
+  const sides = (type, variant) => { const s = herd(type, 1, variant).mesh.geometry.attributes.g3s; let inP = 0, out = 0; for (let i = 0; i < s.count; i++) { const f = s.getZ(i); if (f > -8) (f > s.getW(i) ? inP++ : out++); } return [inP, out]; };
+  const [a, b] = sides('Cow', 0); assert.ok(a > 100 && b > 100, `a black and white cow has both colours (${a}, ${b})`);
+  assert.deepEqual(sides('Cow', 2), [0, 0]); // a plain brown cow
+  assert.deepEqual(sides('Pig', 0), [0, 0]);
+});

diff --git a/tests/domain.test.js b/tests/domain.test.js
@@ -12,6 +12,7 @@ import './designer-fit.test.js';
 import './growth-preview.test.js';
 import './crop-detail.test.js';
 import './crops-real.test.js';
+import './animals-real.test.js';
 import './toy.test.js';
 import './planting-flow.test.js';
 import test from 'node:test';

diff --git a/docs/MAP_STYLE.md b/docs/MAP_STYLE.md
@@ -5,12 +5,12 @@
 Reference that set the direction: Dilum Sanjaya's "WareTrack" warehouse dashboard (X, 3 Oct 2026) — rounded boxes, one brand colour, white/pale ground, soft shadows, floating white UI cards.
 
 ## 0. Two looks side by side (2026-11-10)
-Buildings, ground, props, trees and animals follow the toy rules below. **Living things are moving to look C — true to life** (§10), decided by Dervis on 2026-11-10 from side-by-side samples: "more quality and more realistic". Done so far: every crop and every fruit and nut tree (2026-11-10, three slices). Animals follow. The decoration trees round the farm and in gardens are still toy models. Where §1–§2 say "chunky", "matte" or "no shine", read that as the rule for everything that is NOT a look-C model.
+Buildings, ground, props and decoration trees follow the toy rules below. **Living things are moving to look C — true to life** (§10), decided by Dervis on 2026-11-10 from side-by-side samples: "more quality and more realistic". Done: every crop, every fruit and nut tree and every animal (2026-11-10, four slices). The decoration trees round the farm and in gardens are still toy models. Where §1–§2 say "chunky", "matte" or "no shine", read that as the rule for everything that is NOT a look-C model.
 
 ## 1. Shape
 - **Every box is a rounded box.** `rbox()` from `toy.js`, bevel radius ≈ 24 % of the smallest side, capped at 32 cm. Hard-edged `BoxGeometry` only for pieces under ~6 cm (trims, mullions).
 - **Every post is a capsule, every rim a torus, every crown a sphere.** No cones for trees, no flat cut-outs, no planes standing in for objects.
-- **Chunky proportions.** Fatter posts and rails than life, thick roofs with rounded ridge caps (`pill()`), oversized doors, big round tree crowns, plump animals with big heads and short legs.
+- **Chunky proportions.** Fatter posts and rails than life, thick roofs with rounded ridge caps (`pill()`), oversized doors, big round tree crowns. (Animals left this rule on 2026-11-10, see §10.)
 - **Smooth surfaces.** High segment counts (spheres 14×10+, cylinders 16+). The only faceted thing allowed is nothing.
 - **Real geometry for everything that is a thing.** Crops (`crops3d.js`), animals (`animals3d.js`), props (`props3d.js`). No sprites, no billboards, no camera-facing quads.
 
@@ -128,7 +128,7 @@ Buildings, ground, props, trees and animals follow the toy rules below. **Living
 ## 9. Harnesses (run with Vite, screenshot with Playwright)
 `tests/flora-sheet.html` (one crop model at a chosen stage and level of detail, under the map's light; `window.__flora.render([{ name, stage, tier }])` returns a picture and the triangle count). `tests/g3-all.html` (every zone type), `tests/g3-zoo.html` (every animal, coop and barn), `tests/g3-beds.html` (36 narrow numbered beds), `tests/g3-crops.html` (every crop family at growing and harvest stage), `tests/g3-balcony.html` (balcony environment; `?sparse=1` leaves floor free for the bistro set, rug and trellis), `tests/g3-garden.html` (back garden, 8 × 5 m). `g3-all` and `g3-balcony` take `?coarse=1` (phone UX tier) and `?full=1` (full screen on mount) besides the sky overrides; `window.__g3.controls.homeFrac` / `homeTurn` report the home fit (dev only).
 
-## 10. Look C — true-to-life plants (`plantkit.js`, `crops-real.js`; decided 2026-11-10)
+## 10. Look C — true-to-life plants and animals (`plantkit.js`, `crops-real.js`, `trees-real.js`, `animals3d.js`; decided 2026-11-10)
 - **What it is.** Every crop has its own entry (56 in `REAL`; an unknown name grows as a plain leafy rosette). Each is built the way the plant grows: tomato up a cane with compound leaves and trusses; pepper forking three times with fruit under the forks; salad leaves as a rosette with a heart; herbs as leaf pairs up their stems, needles (rosemary) or divided leaves on long stalks (parsley); strawberry with trifoliate leaves, flowers and berries at the edge; brassicas as wrapper leaves round a head, crown, curd or a stalk of sprouts; carrot, fennel and dill with feathery fronds; onion and garlic as tube leaves over a bulb (the tops flop at harvest), leek as a fan on a white shank; squashes as runners with big leaves on stalks and the fruit on the ground; beans up three canes; maize with cobs and a tassel; grain in tillers that turn gold; sunflower (its head tips up toward the camera more than a real one, so it shows); cane fruit on arching canes; a grape vine trained along a wire; asparagus spears with fern behind. Real leaf blades, not blobs. Still geometry and vertex colour only: no image textures.
 - **Surface, per pixel** (`surfaceShader`): every vertex carries `g3s = (kind, gloss, u, v)`. Kind 1 leaf: midrib, side veins, mottling, sunlight glowing through from behind. Kind 2 bark: ridges along the limb, lichen. Kind 3 fruit skin: mottling, pale pores. Kind 0 plain. `gloss` drives the highlight (leaves 0.1–0.55, fruit about 0.9).
 - **Material.** `MeshPhongMaterial`, two instances: solid parts (stems, fruit) front faces only, leaf blades double-sided. `PlantKit.build()` puts solids in group 0 and blades in group 1; a mesh takes `[solid, thin]`. Drawing everything double-sided cost about a quarter more per frame. The seedling (stage 1) is the only crop model still built with the plain kit; it uses the solid material with a plain surface.
@@ -141,3 +141,7 @@ Buildings, ground, props, trees and animals follow the toy rules below. **Living
 - **Bundle:** the Grove3D chunk is 231.8 KB gzip. The 230 KB budget is raised to **240 KB** (2026-11-10): splitting the plant models into their own file would not make the download smaller, only two files. Trees and animals will need the question asked again.
 - **Known weak points:** on a zoomed-out farm, thin crops (onion, garlic, carrot, grain) leave beds looking emptier than the old chunky models did. Small pictures of fine-leaved plants (thyme, oregano, dill) are harder to read at list size. Okra pods hide in the foliage.
 - **Fruit and nut trees (third slice, `trees-real.js`).** One model per species (19 keys), in units of the crown radius; the map scales it by size and stage as before. A barked trunk forking into limbs, a crown of separate leaves over darker inner masses (`PlantKit.lump`), fruit under the foliage at stage 5 only. Habits differ: apple spreads, pear and avocado stand tall, peach and almond are vase-shaped with hanging narrow leaves, citrus is dense and dark, fig is low on three stems with huge leaves, olive is gnarled and silver, hazel and pomegranate are multi-stem shrubs. Trees are drawn through `buildCrops` (items with `tree: true`), one instanced mesh per species, so they sway with the crops. Levels by tree count (`treeTier`): 0 up to 4 trees, 1 up to 10, 2 up to 24, 3 up to 60, 4 beyond; budget per tree 16,000 / 6,500 / 3,200 / 2,200 / 2,000 triangles. The fruit-drop animation and the gold harvest ring are unchanged. All-zones farm after this slice: 396 k triangles, 635 ms on the software rasteriser (696 ms before).
+- **Animals (fourth slice, `animals3d.js`).** Same rig, brain and one-mesh herd as before; the models and the material changed. The trunk is one lofted form (`Rig.loft`: stations of half width, top and bottom, slightly square in section) with a chest and, where the species carries one, a belly. Legs are lofted with a knee in front and a hock behind; horses and donkeys stand on one hoof, the rest are cloven. Ears are cupped sheets with a pink inside, manes and tail tufts are hair blades, birds carry tail and wing feathers, three toes forward and one back, a lobed comb. Trunks are leaner and heads smaller than the toy build, and the horse is shorter in the back. **This is simplified anatomy that reads at map size, not a sculpt: no shoulders, no muscle, no face modelling.**
+- **Coat material.** `MeshPhongMaterial` with two extra vertex attributes: `g3s = (kind, gloss, patch field, patch cut)` and `g3k = (patch colour, hair scale)`. Kind 4 is coat or plumage, 0 is plain (eyes, hooves, horns, beaks). Breed patches (cow, goat) are a smooth field stored in the vertices and cut per pixel with a little noise, so their edges are crisp at any distance. A stretched noise adds hair or feather grain. Eyes shine (gloss .95), hooves, horns and beaks a little. Undersides are shaded in the colours.
+- **Animal levels of detail** (`animalTier(count, phone)`, `ANIMAL_Q`): by the number of animals on the farm — 0 up to 6, 1 up to 16, 2 up to 40, 3 beyond; a phone on a big farm drops one more level. Lighter levels have fewer segments, fewer and wider hair blades, and at level 3 a single hoof. Budget per animal: cattle-sized 7,000 / 4,000 / 2,900 / 2,200 triangles, birds and rabbits 2,200 / 1,500 / 1,150 / 900 (enforced in `tests/animals-real.test.js`). Before this slice a cow was 5,168 triangles at every herd size on a desktop, so herds of seven or more are now lighter than they were; a single animal is heavier (cow 5,988, hen 1,956 against 1,304).
+- **Measured 2026-11-10** on the zoo harness (25 animals, phone level, software rasteriser): herd 17.6 k → 28.6 k triangles, frame time 312 → 322 ms, inside the run-to-run noise. Not measured on a phone. Bundle after this slice: Grove3D chunk 237.5 KB gzip of the 240 KB budget — the next addition to the 3D map has to split the chunk or take something out.
